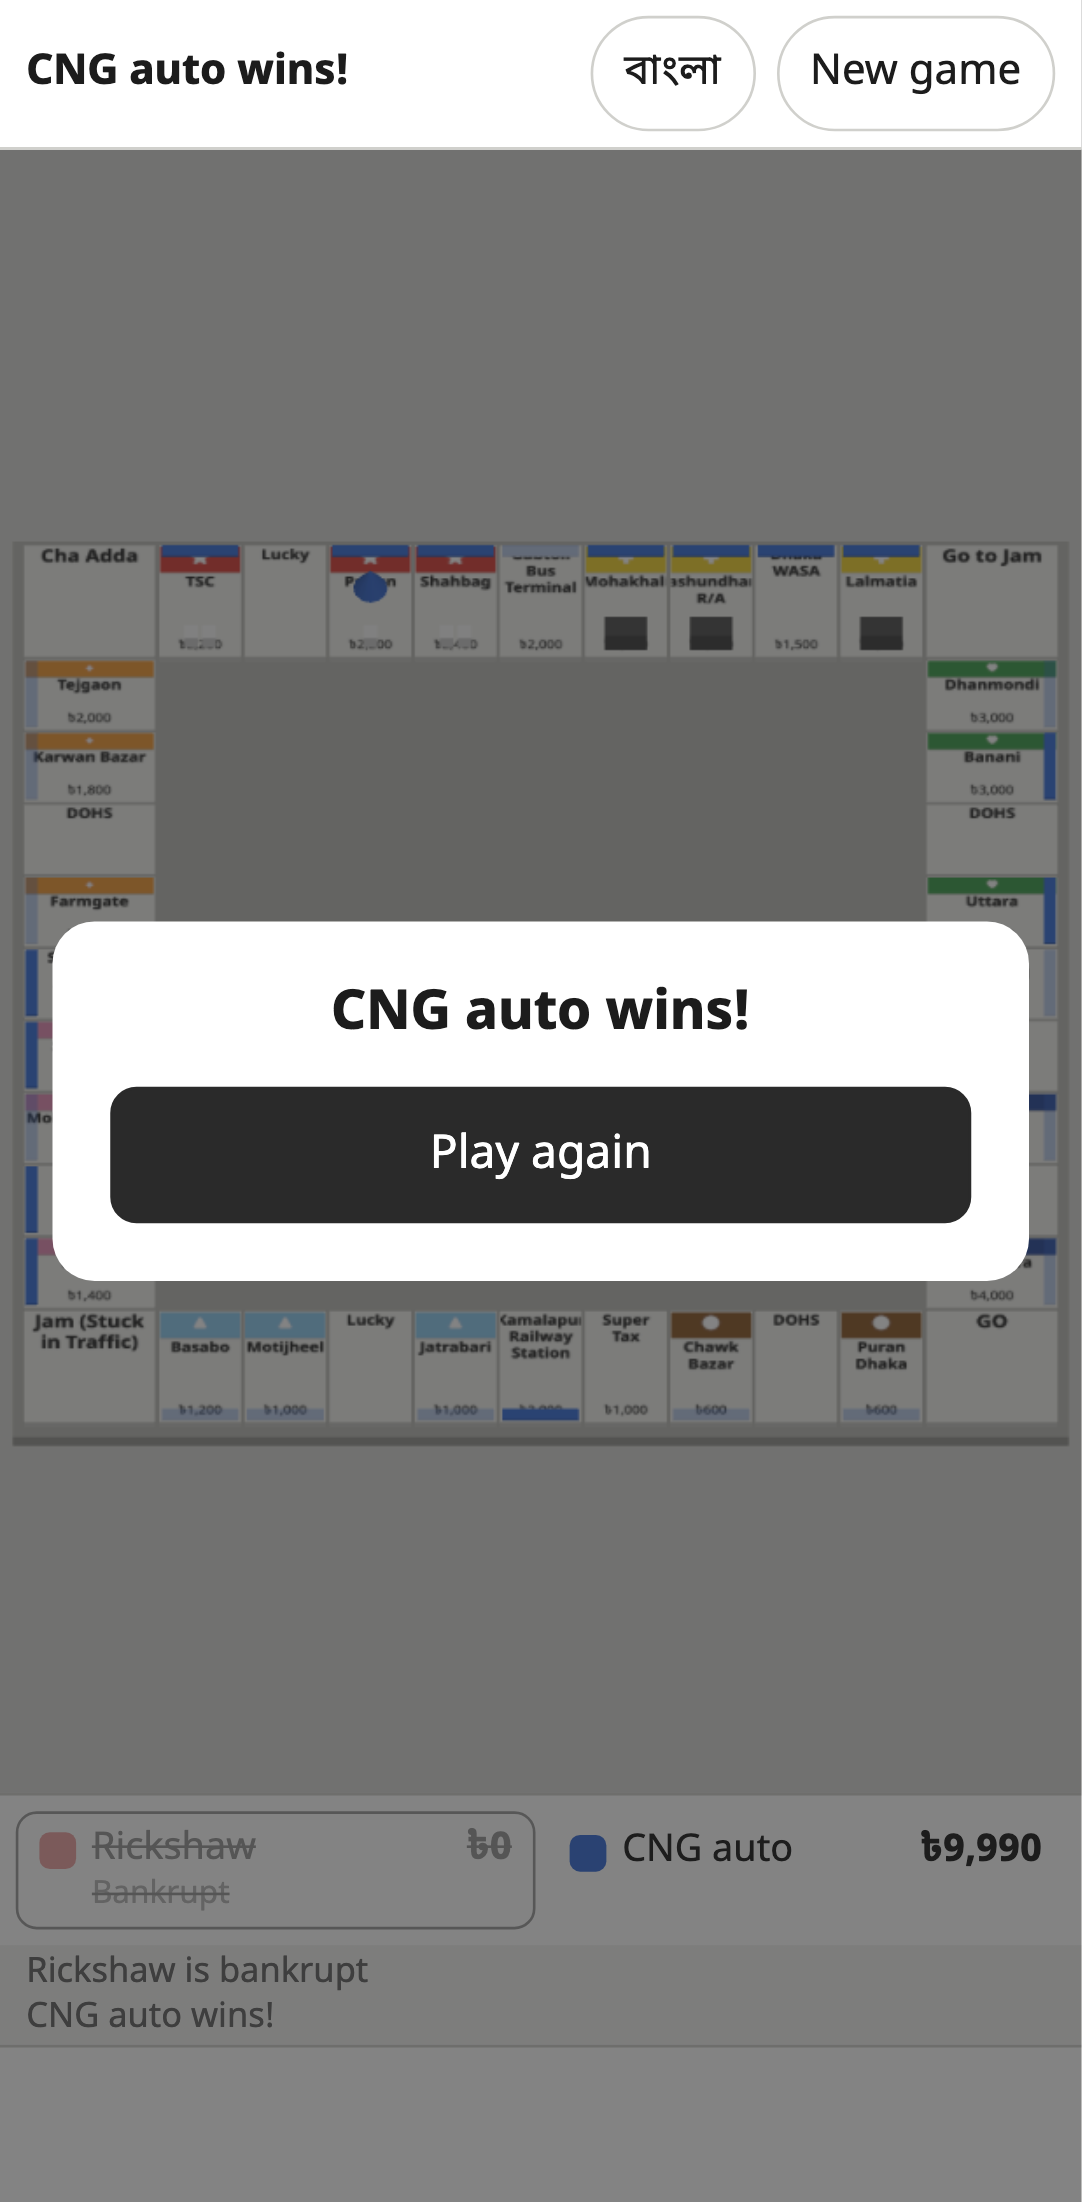
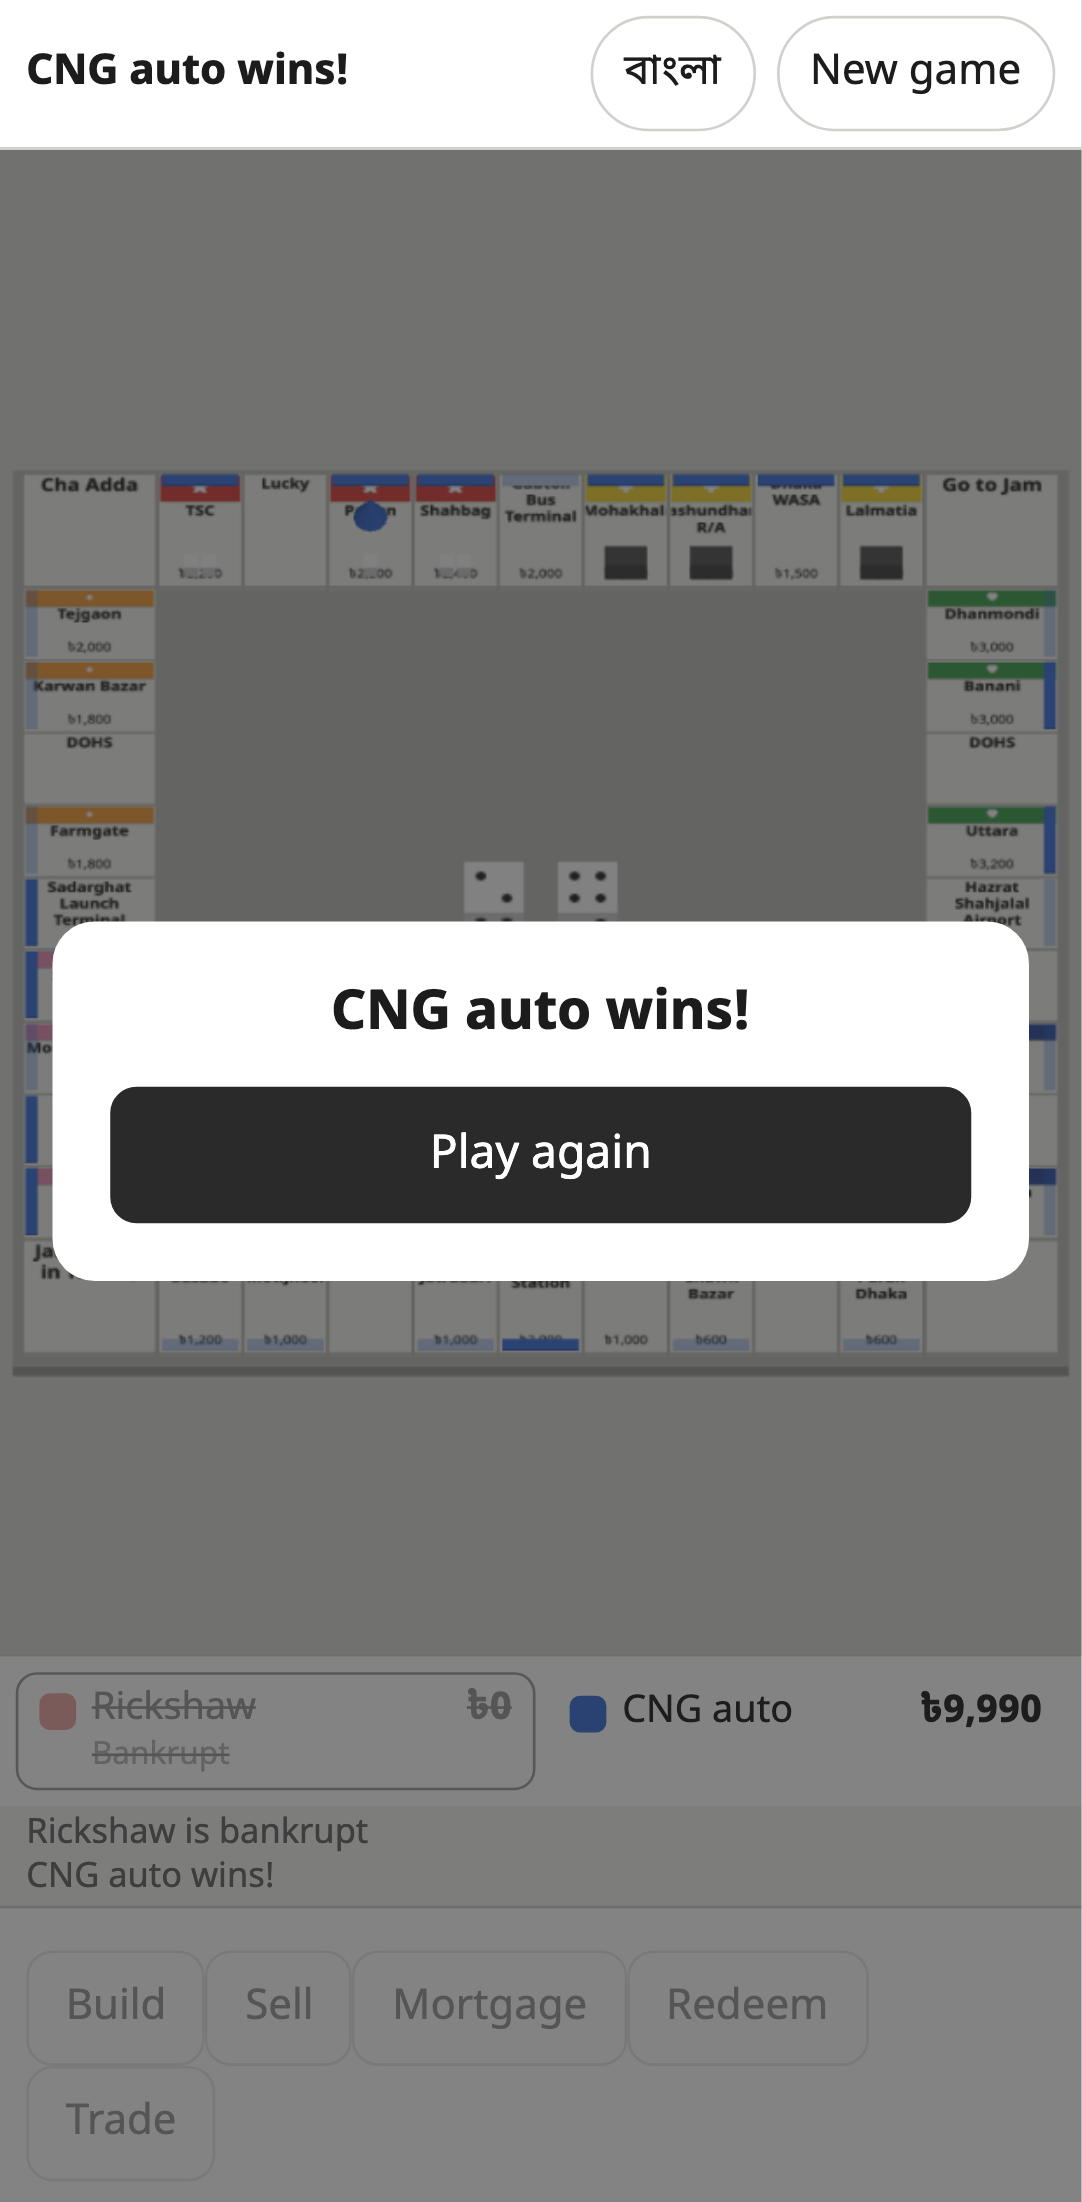
S5 FR-17: fixed action bar with separate Build, Sell, Mortgage, Redeem and Trade buttons (D-72)
Each management button opens a list of only that move; the move of the moment (Roll, Jam
options, End turn) sits above the bar. E2E driver made robust to self-closing computer cards.

diff --git a/src/ui/app.ts b/src/ui/app.ts
@@ -37,6 +37,8 @@ export class App {
   private scene: BoardScene | null = null;
   private setup = { count: 2, seats: ['human', 'human', 'human', 'human', 'human', 'human'] as SeatKind[] };
   private panel: 'manage' | 'trade' | null = null;
+  // Which management move the manage sheet lists (FR-17 buttons), or all of them in DEBT.
+  private mode: 'BUILD' | 'SELL_BUILDING' | 'MORTGAGE' | 'REDEEM' | null = null;
   private draft: TradeDraft = emptyDraft();
   private log: string[] = [];
   private cards: Array<{ player: number; deck: 'lucky' | 'dohs'; cardId: string }> = [];
@@ -209,25 +211,42 @@ export class App {
 
   // ---------- action bar ----------
 
+  // FR-17: a fixed bar of Build, Sell, Mortgage, Redeem and Trade, plus the move of the moment
+  // (Roll, Jam options or End turn) above it.
   private renderActions(s: GameState): void {
     const session = this.session!;
     const bar = this.els['actions']!;
     const who = session.actor();
-    if (who === null || s.turn.phase === 'GAME_OVER') return bar.replaceChildren();
-    if (!session.isHuman(who)) return bar.replaceChildren(h('div', { class: 'thinking' }, t('hud.thinking', { name: playerName(who) })));
-    const legal = session.legalFor(who);
+    const human = who !== null && session.isHuman(who) && s.turn.phase !== 'GAME_OVER';
+    const legal = human ? session.legalFor(who) : [];
     const has = (type: Action['type']) => legal.some((a) => a.type === type);
-    const btns: HTMLElement[] = [];
-    if (s.turn.phase === 'ROLL') {
-      btns.push(this.actButton(t('action.roll'), { type: 'ROLL' }, 'primary'));
-      if (has('PAY_JAM_FINE')) btns.push(this.actButton(t('action.payFine', { amount: money(this.o.engine.rules.config.jam.fine) }), { type: 'PAY_JAM_FINE' }));
-      if (has('USE_JAM_CARD')) btns.push(this.actButton(t('action.useCard'), { type: 'USE_JAM_CARD' }));
-    } else if (s.turn.phase === 'MANAGE' && !s.trade) {
-      btns.push(h('button', { 'data-testid': 'open-manage', onclick: () => { this.panel = this.panel === 'manage' ? null : 'manage'; this.render(); } }, t('action.manage')));
-      btns.push(h('button', { 'data-testid': 'open-trade', onclick: () => { this.panel = this.panel === 'trade' ? null : 'trade'; this.draft = emptyDraft(); this.render(); } }, t('action.trade')));
-      btns.push(this.actButton(t('action.endTurn'), { type: 'END_TURN' }, 'primary'));
+    const main: HTMLElement[] = [];
+    if (who !== null && !session.isHuman(who) && s.turn.phase !== 'GAME_OVER') main.push(h('div', { class: 'thinking' }, t('hud.thinking', { name: playerName(who) })));
+    if (human && s.turn.phase === 'ROLL') {
+      main.push(this.actButton(t('action.roll'), { type: 'ROLL' }, 'primary'));
+      if (has('PAY_JAM_FINE')) main.push(this.actButton(t('action.payFine', { amount: money(this.o.engine.rules.config.jam.fine) }), { type: 'PAY_JAM_FINE' }));
+      if (has('USE_JAM_CARD')) main.push(this.actButton(t('action.useCard'), { type: 'USE_JAM_CARD' }));
+    } else if (human && s.turn.phase === 'MANAGE' && !s.trade) {
+      main.push(this.actButton(t('action.endTurn'), { type: 'END_TURN' }, 'primary'));
     }
-    bar.replaceChildren(...btns);
+    const manage = human && s.turn.phase === 'MANAGE' && !s.trade;
+    const tool = (testid: string, label: string, mode: App['mode']) => h('button', {
+      class: `tool${this.panel === 'manage' && this.mode === mode ? ' on' : ''}`, 'data-testid': testid,
+      disabled: !manage || !has(mode!),
+      onclick: () => { const same = this.panel === 'manage' && this.mode === mode; this.panel = same ? null : 'manage'; this.mode = same ? null : mode; this.render(); },
+    }, label);
+    const others = s.players.some((p, i) => i !== who && !p.bankrupt);
+    const tools = h('div', { class: 'tools' },
+      tool('act-build', t('action.build'), 'BUILD'),
+      tool('act-sell', t('action.sell'), 'SELL_BUILDING'),
+      tool('act-mortgage', t('action.mortgage'), 'MORTGAGE'),
+      tool('act-redeem', t('action.redeem'), 'REDEEM'),
+      h('button', {
+        class: `tool trade${this.panel === 'trade' ? ' on' : ''}`, 'data-testid': 'act-trade', disabled: !manage || !others,
+        onclick: () => { this.panel = this.panel === 'trade' ? null : 'trade'; this.draft = emptyDraft(); this.render(); },
+      }, t('action.trade')),
+    );
+    bar.replaceChildren(h('div', { class: 'main-row' }, ...main), tools);
   }
 
   private actButton(label: string, action: Action, cls = '', disabled = false): HTMLElement {
@@ -327,10 +346,11 @@ export class App {
   private manageSheet(s: GameState, who: number, closable: boolean): HTMLElement {
     const legal = this.session!.legalFor(who);
     const mine = this.o.engine.rules.tiles.filter((x) => s.properties[x.id]?.owner === who);
-    const rows = mine.map((tile) => {
+    const rows = mine.filter((tile) => !closable || this.mode === null || legal.some((a) => a.type === this.mode && 'tileId' in a && a.tileId === tile.id)).map((tile) => {
       const prop = s.properties[tile.id]!;
       const q = this.o.engine.quote(s, tile.id);
-      const can = (type: Action['type']) => legal.some((a) => a.type === type && 'tileId' in a && a.tileId === tile.id);
+      const allowed = (type: Action['type']) => !closable || this.mode === null || this.mode === type;
+      const can = (type: Action['type']) => allowed(type) && legal.some((a) => a.type === type && 'tileId' in a && a.tileId === tile.id);
       const level = prop.mortgaged ? t('manage.mortgaged') : tile.type === 'property' ? t(`deed.level.${Math.min(prop.houses, 5)}`) : '';
       const btns: HTMLElement[] = [];
       if (can('BUILD')) btns.push(this.actButton(t('manage.build', { amount: money(q.buildCost!) }), { type: 'BUILD', tileId: tile.id }));
@@ -344,7 +364,7 @@ export class App {
     return h('div', { 'data-testid': 'manage' },
       h('h3', {}, t('manage.title', { name: playerName(who) })),
       rows.length ? h('div', { class: 'props' }, ...rows) : h('div', { class: 'note' }, t('manage.none')),
-      closable ? h('div', { class: 'row' }, h('button', { onclick: () => { this.panel = null; this.render(); } }, t('action.close'))) : null,
+      closable ? h('div', { class: 'row' }, h('button', { onclick: () => { this.panel = null; this.mode = null; this.render(); } }, t('action.close'))) : null,
     );
   }
 

diff --git a/tests/e2e/helpers.ts b/tests/e2e/helpers.ts
@@ -27,20 +27,24 @@ async function clickAction(page: Page, a: Action): Promise<boolean> {
 // Plays one human decision through the interface, using the move the Medium AI suggests.
 export async function playOneStep(page: Page): Promise<'over' | 'acted' | 'waiting'> {
   if (await visible(page, 'game-over')) return 'over';
-  if (await visible(page, 'card')) { await page.getByTestId('card-ok').click(); return 'acted'; }
-  if (await visible(page, 'handoff-trade')) { await page.getByTestId('reveal-trade').click(); return 'acted'; }
+  // A computer player's card closes by itself, so it may vanish before the click lands.
+  if (await visible(page, 'card')) { await page.getByTestId('card-ok').click({ timeout: 1000 }).catch(() => {}); return 'acted'; }
+  if (await visible(page, 'handoff-trade')) { await page.getByTestId('reveal-trade').click({ timeout: 1000 }).catch(() => {}); return 'acted'; }
   const a = await page.evaluate(() => (window as unknown as { __babsha: { app: { suggest(): unknown } } }).__babsha.app.suggest()) as Action | null;
   if (!a) return 'waiting';
   switch (a.type) {
-    case 'BUILD': case 'SELL_BUILDING': case 'MORTGAGE': case 'REDEEM':
-      if (!(await visible(page, 'manage')) && !(await visible(page, 'debt'))) await page.getByTestId('open-manage').click();
+    case 'BUILD': case 'SELL_BUILDING': case 'MORTGAGE': case 'REDEEM': {
+      const ids: Record<string, string> = { BUILD: 'act-build', SELL_BUILDING: 'act-sell', MORTGAGE: 'act-mortgage', REDEEM: 'act-redeem' };
+      const open = await page.locator('.tool.on').getAttribute('data-testid').catch(() => null);
+      if (!(await visible(page, 'debt')) && open !== ids[a.type]) await page.getByTestId(ids[a.type]!).click();
       break;
+    }
     case 'DECLARE_BANKRUPTCY':
       await page.getByTestId('bankrupt').click();
       break;
     case 'PROPOSE_TRADE': {
       const o = a.offer!;
-      await page.getByTestId('open-trade').click();
+      await page.getByTestId('act-trade').click();
       await page.getByTestId(`trade-to-${o.to}`).click();
       for (const id of o.giveTiles) await page.getByTestId(`trade-give-${id}`).check();
       for (const id of o.getTiles) await page.getByTestId(`trade-get-${id}`).check();
@@ -104,11 +108,13 @@ export async function runSteps(page: Page, max: number): Promise<{ status: 'over
       if (press('card-ok') || press('reveal-trade')) continue;
       const a = app.suggest();
       if (!a) return { status: 'stuck' as const, steps: i, detail: 'no suggestion' };
-      if (['BUILD', 'SELL_BUILDING', 'MORTGAGE', 'REDEEM'].includes(a.type) && !shown('manage')) press('open-manage');
+      const opener: Record<string, string> = { BUILD: 'act-build', SELL_BUILDING: 'act-sell', MORTGAGE: 'act-mortgage', REDEEM: 'act-redeem' };
+      const open = document.querySelector('.tool.on')?.getAttribute('data-testid');
+      if (opener[a.type] && !shown('debt') && open !== opener[a.type]) press(opener[a.type]!);
       if (a.type === 'DECLARE_BANKRUPTCY') press('bankrupt');
       if (a.type === 'PROPOSE_TRADE') {
         const o = a.offer!;
-        press('open-trade');
+        press('act-trade');
         press(`trade-to-${o.to}`);
         const tick = (id: string) => { const b = shown(id) as HTMLInputElement | null; if (b && !b.checked) { b.checked = true; b.dispatchEvent(new Event('change')); } };
         o.giveTiles.forEach((id) => tick(`trade-give-${id}`));

diff --git a/tests/e2e/game.spec.ts b/tests/e2e/game.spec.ts
@@ -51,6 +51,21 @@ test.describe('S4 interface on a phone', () => {
     expect(bn.filter((x) => /[A-Za-z]/.test(x) && x !== 'English')).toEqual([]);
   });
 
+  test('FR-17: a fixed action bar offers Build, Sell, Mortgage, Redeem and Trade; Build lists only build moves', async ({ page }) => {
+    await startGame(page, ['human', 'human']);
+    for (const id of ['act-build', 'act-sell', 'act-mortgage', 'act-redeem', 'act-trade']) await expect(page.getByTestId(id)).toBeVisible();
+    // Play until the active player can build, then use the Build button.
+    for (let i = 0; i < 3000; i++) {
+      if (await page.getByTestId('act-build').isEnabled()) break;
+      await runSteps(page, 1);
+    }
+    await expect(page.getByTestId('act-build')).toBeEnabled();
+    await page.getByTestId('act-build').click();
+    const types = await page.locator('[data-testid="manage"] [data-action]').evaluateAll((els) => els.map((e) => JSON.parse((e as HTMLElement).dataset['action']!).type as string));
+    expect(types.length).toBeGreaterThan(0);
+    expect(new Set(types)).toEqual(new Set(['BUILD']));
+  });
+
   test('FR-13: a game with one human against a computer player runs the computer turns', async ({ page }) => {
     await startGame(page, ['human', 'hard']);
     for (let i = 0; i < 60; i++) await playOneStep(page);
